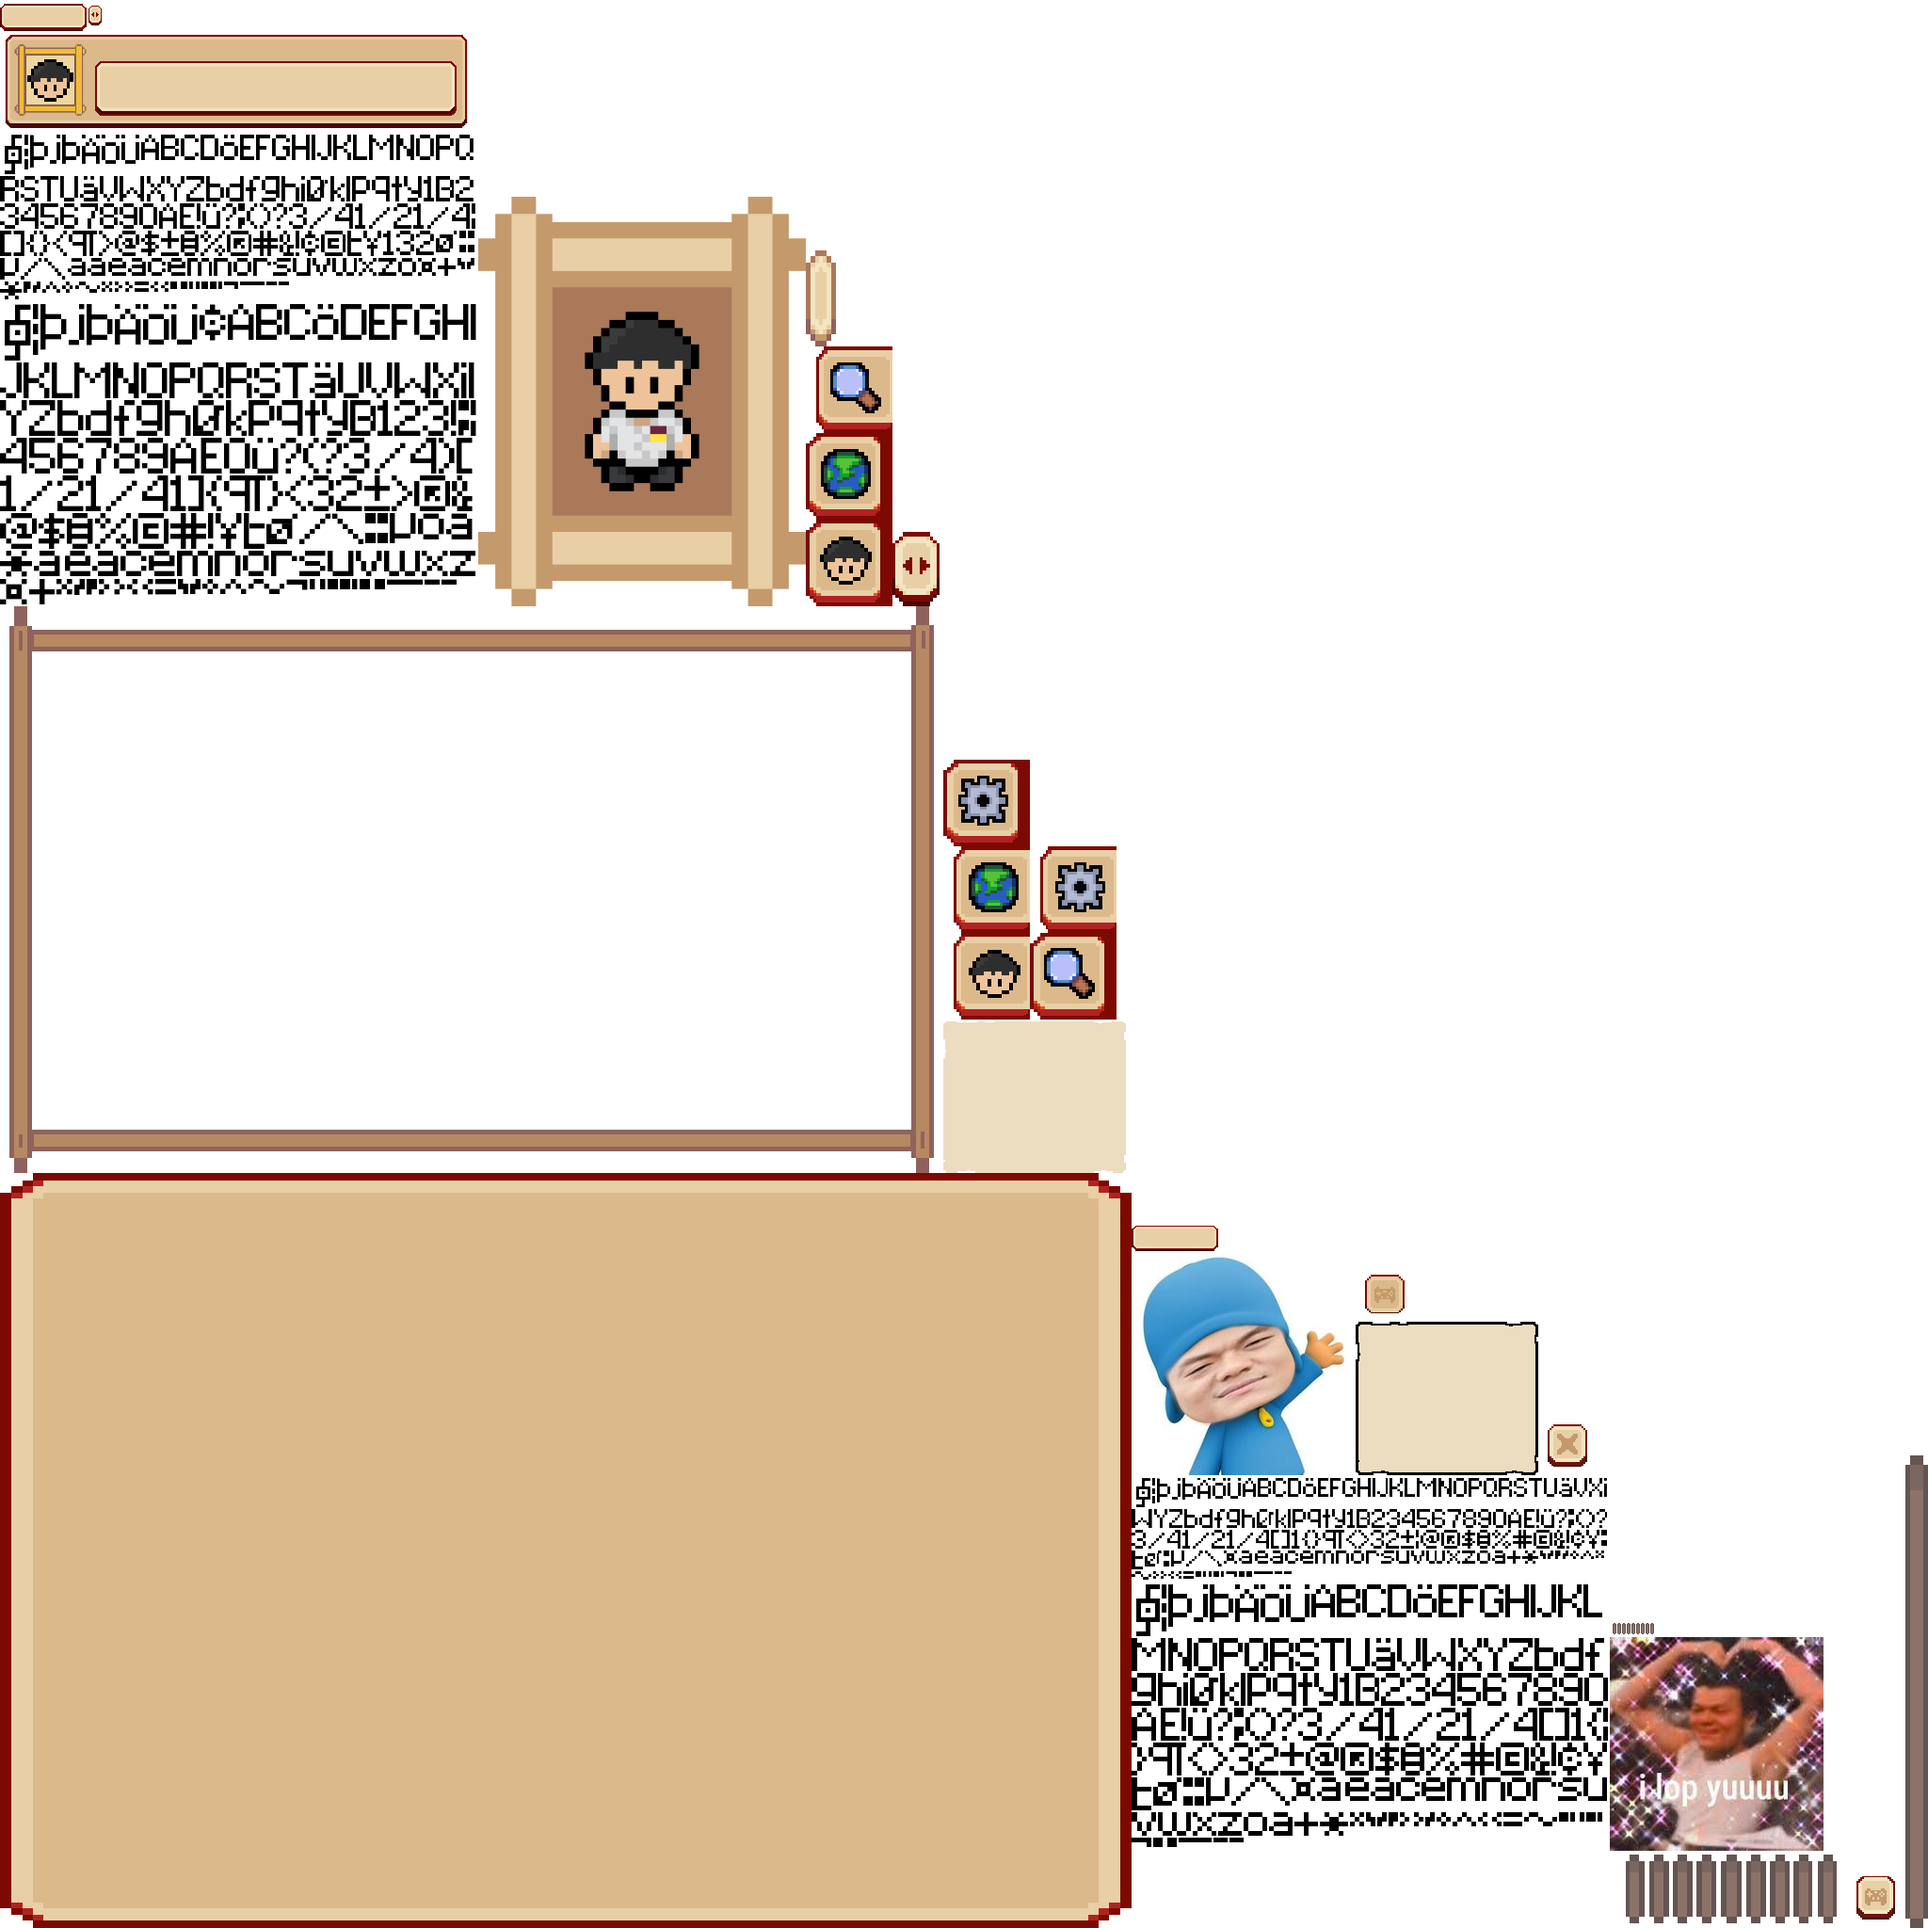
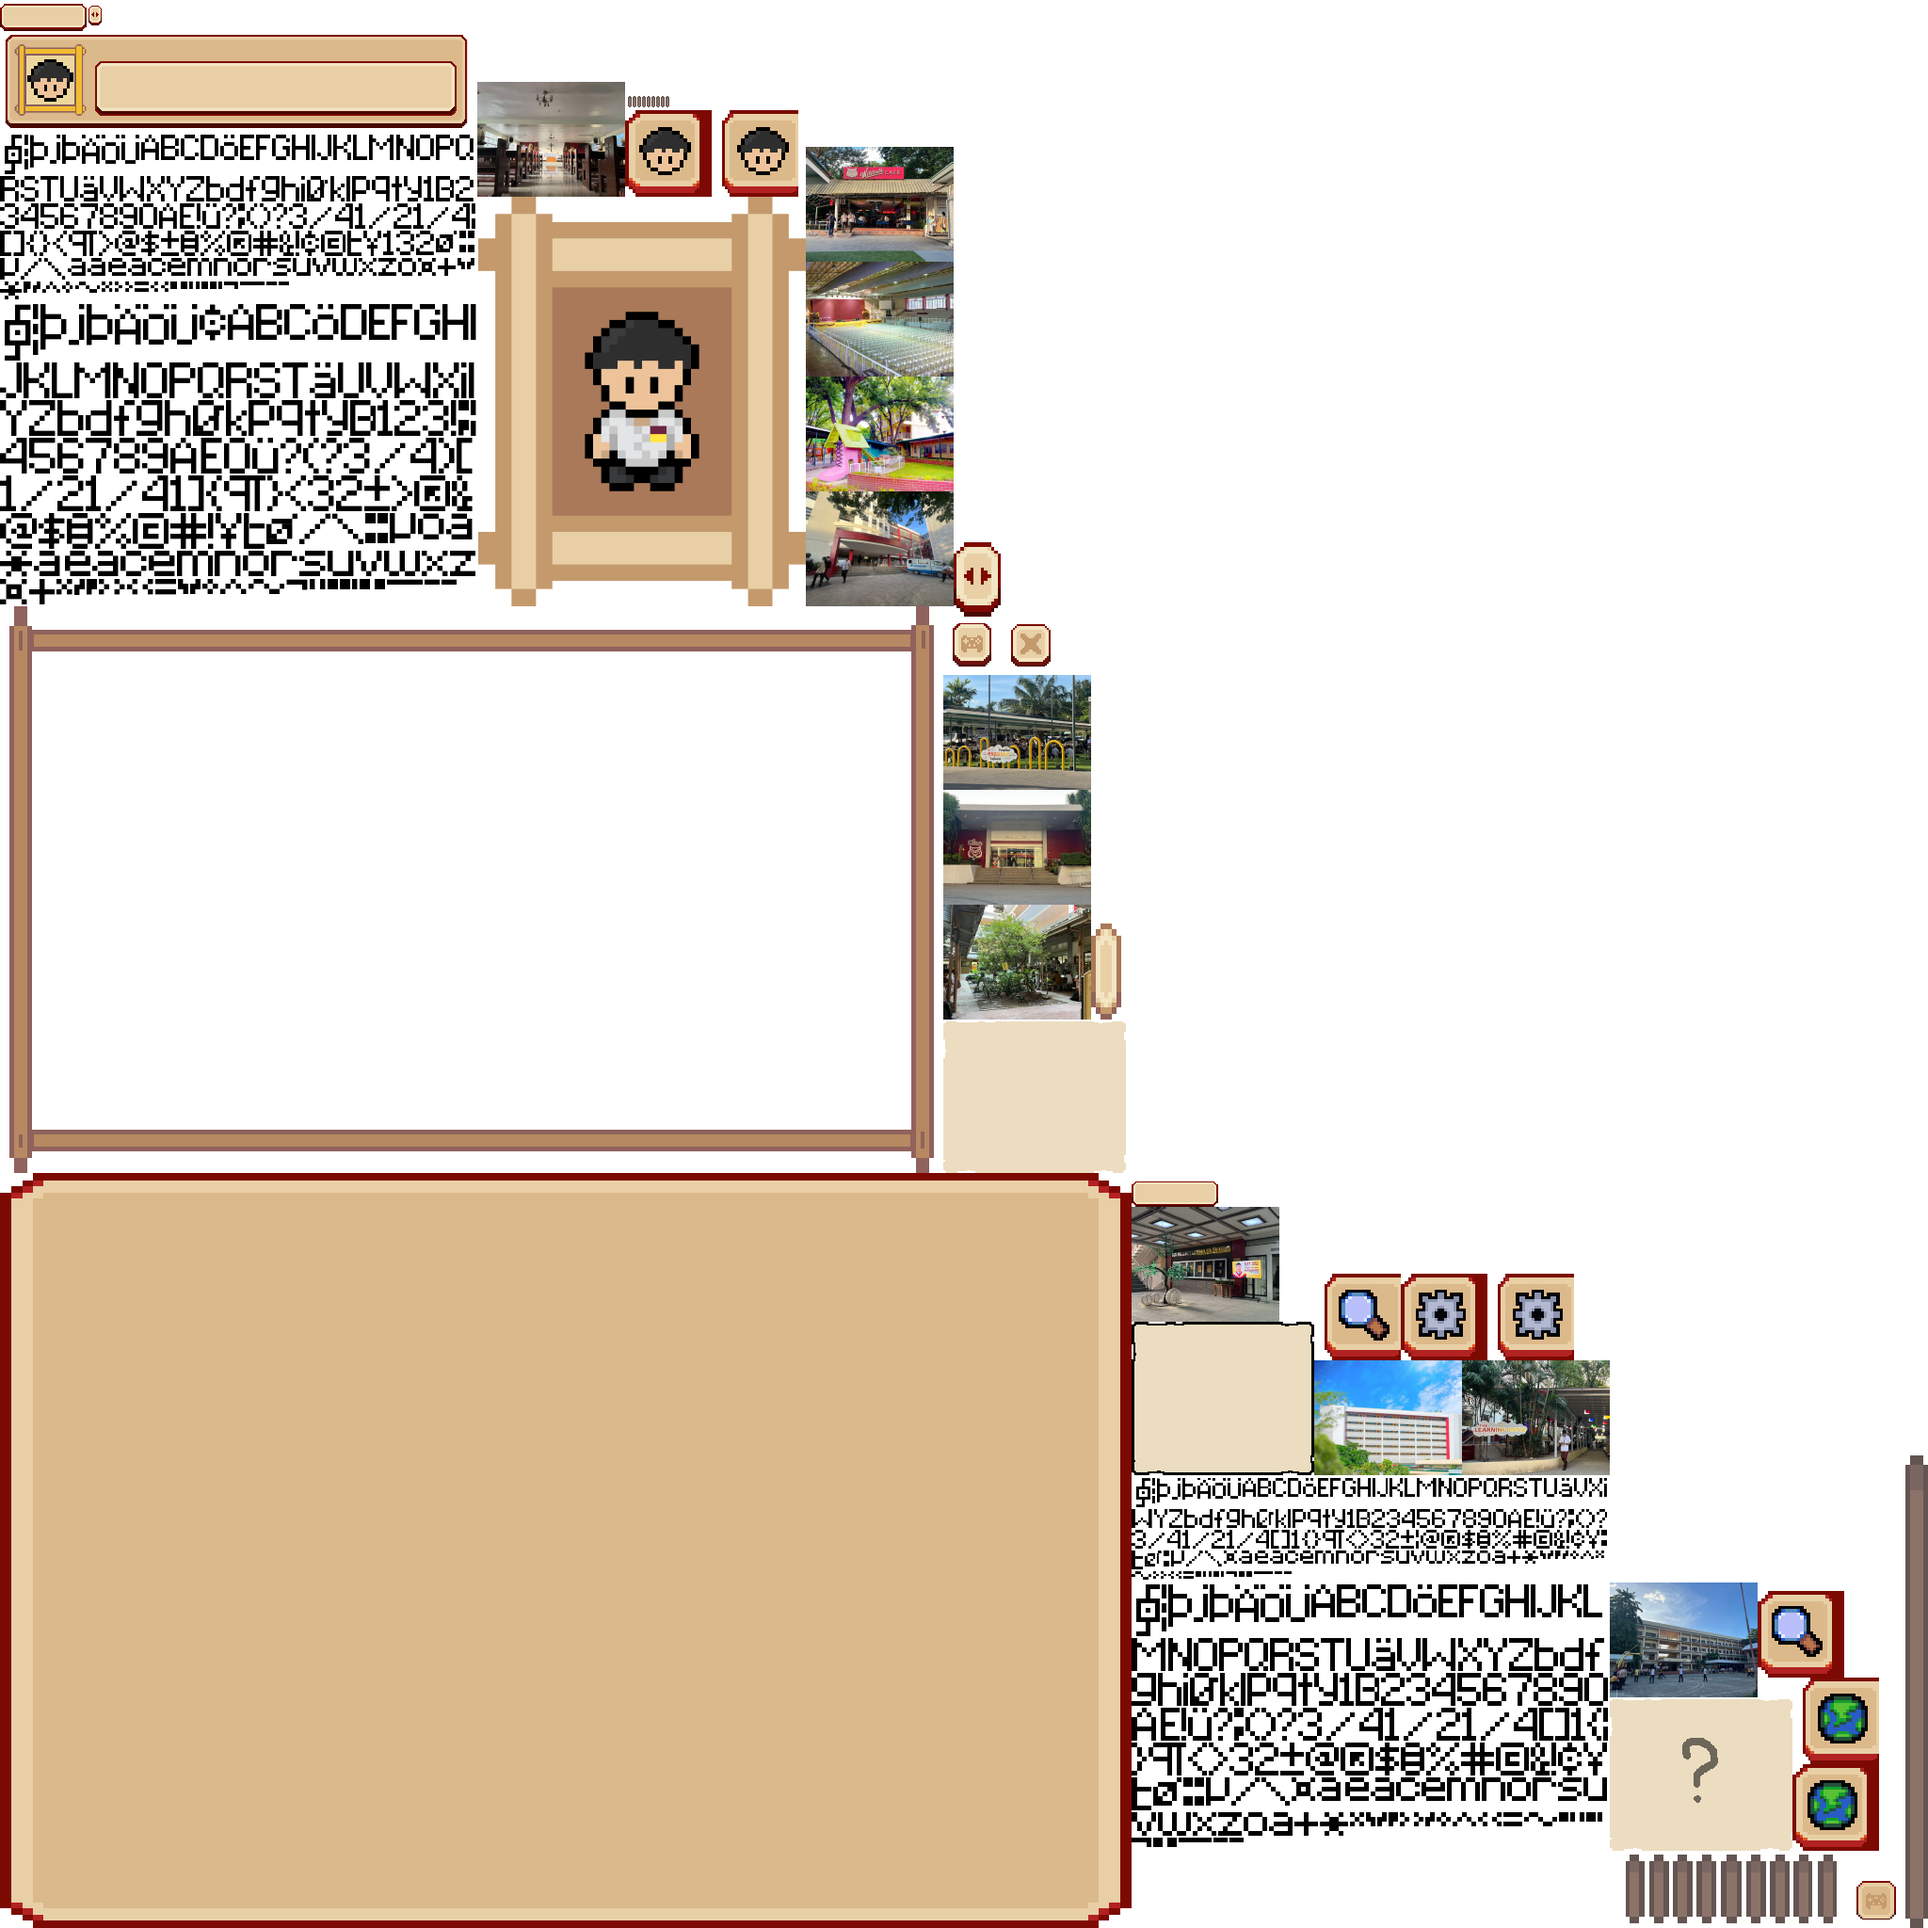
added exploration menu UI

Changed region(s): [[0.25, 0.0312, 0.5938, 0.5312], [0.5625, 0.5938, 0.8438, 0.7812], [0.8125, 0.8125, 1.0, 1.0]]

diff --git a/core/src/main/java/io/mygame/ui/MainGameUI.java b/core/src/main/java/io/mygame/ui/MainGameUI.java
@@ -3,16 +3,21 @@ package io.mygame.ui;
 import com.badlogic.gdx.Game;
 import com.badlogic.gdx.Gdx;
 import com.badlogic.gdx.Input;
+import com.badlogic.gdx.graphics.Texture;
+import com.badlogic.gdx.graphics.g2d.TextureRegion;
 import com.badlogic.gdx.math.Interpolation;
 import com.badlogic.gdx.scenes.scene2d.Actor;
 import com.badlogic.gdx.scenes.scene2d.Stage;
 import com.badlogic.gdx.scenes.scene2d.Touchable;
 import com.badlogic.gdx.scenes.scene2d.ui.*;
 import com.badlogic.gdx.scenes.scene2d.utils.ChangeListener;
+import com.badlogic.gdx.scenes.scene2d.utils.TextureRegionDrawable;
 import com.badlogic.gdx.utils.Align;
 import com.badlogic.gdx.utils.viewport.ScreenViewport;
 import io.mygame.screens.MainMenu;
 import io.mygame.screens.ScreenState;
+
+import java.util.ArrayList;
 
 public class MainGameUI extends UI {
     private CheckBox statsCb;
@@ -253,49 +258,49 @@ public class MainGameUI extends UI {
         table1.align(Align.top);
 
         Label label = new Label("Areas Discovered", skin, "header");
-        table1.add(label);
+        table1.add(label).padBottom(50.0f);
 
         table1.row();
-
         Table table2 = new Table();
 
         ImageButton imageButton = new ImageButton(skin);
-        table2.add(imageButton).padLeft(20.0f).padRight(20.0f);
+        table2.add(imageButton).padLeft(20.0f).padRight(20.0f).padBottom(20.0f);
 
-        imageButton = new ImageButton(skin);
-        table2.add(imageButton).padLeft(20.0f).padRight(20.0f);
+        imageButton = new ImageButton(skin, "RTL");
+        table2.add(imageButton).padLeft(20.0f).padRight(20.0f).padBottom(20.0f);
 
-        imageButton = new ImageButton(skin);
-        table2.add(imageButton).padLeft(20.0f).padRight(20.0f);
+        imageButton = new ImageButton(skin, "GLE");
+        table2.add(imageButton).padLeft(20.0f).padRight(20.0f).padBottom(20.0f);
 
-        table2.row();
-        imageButton = new ImageButton(skin);
-        table2.add(imageButton).padLeft(20.0f).padRight(20.0f);
-
-        imageButton = new ImageButton(skin);
-        table2.add(imageButton).padLeft(20.0f).padRight(20.0f);
-
-        imageButton = new ImageButton(skin);
-        table2.add(imageButton).padLeft(20.0f).padRight(20.0f);
+        imageButton = new ImageButton(skin, "SAL");
+        table2.add(imageButton).padLeft(20.0f).padRight(20.0f).padBottom(20.0f);
 
         table2.row();
-        imageButton = new ImageButton(skin);
-        table2.add(imageButton);
+        imageButton = new ImageButton(skin, "LRAC");
+        table2.add(imageButton).padLeft(20.0f).padRight(20.0f).padBottom(20.0f);
 
-        imageButton = new ImageButton(skin);
-        table2.add(imageButton);
+        imageButton = new ImageButton(skin, "ESPACIO");
+        table2.add(imageButton).padLeft(20.0f).padRight(20.0f).padBottom(20.0f);
 
-        imageButton = new ImageButton(skin);
-        table2.add(imageButton);
+        imageButton = new ImageButton(skin, "PATIO");
+        table2.add(imageButton).padLeft(20.0f).padRight(20.0f).padBottom(20.0f);
+
+        imageButton = new ImageButton(skin, "ACAD");
+        table2.add(imageButton).padLeft(20.0f).padRight(20.0f).padBottom(20.0f);
 
         table2.row();
-        table2.add();
+        imageButton = new ImageButton(skin, "ELEM");
+        table2.add(imageButton).padLeft(20.0f).padRight(20.0f).padBottom(20.0f);
 
-        table2.add();
+        imageButton = new ImageButton(skin, "GYM");
+        table2.add(imageButton).padLeft(20.0f).padRight(20.0f).padBottom(20.0f);
 
-        table2.add();
-        ScrollPane scrollPane = new ScrollPane(table2, skin);
-        table1.add(scrollPane);
+        imageButton = new ImageButton(skin, "CANTEEN");
+        table2.add(imageButton).padLeft(20.0f).padRight(20.0f).padBottom(20.0f);
+
+        imageButton = new ImageButton(skin, "CHAPEL");
+        table2.add(imageButton).padLeft(20.0f).padRight(20.0f).padBottom(20.0f);
+        table1.add(table2).maxHeight(600.0f);
         stack.addActor(table1);
 
         Container container = new Container();
